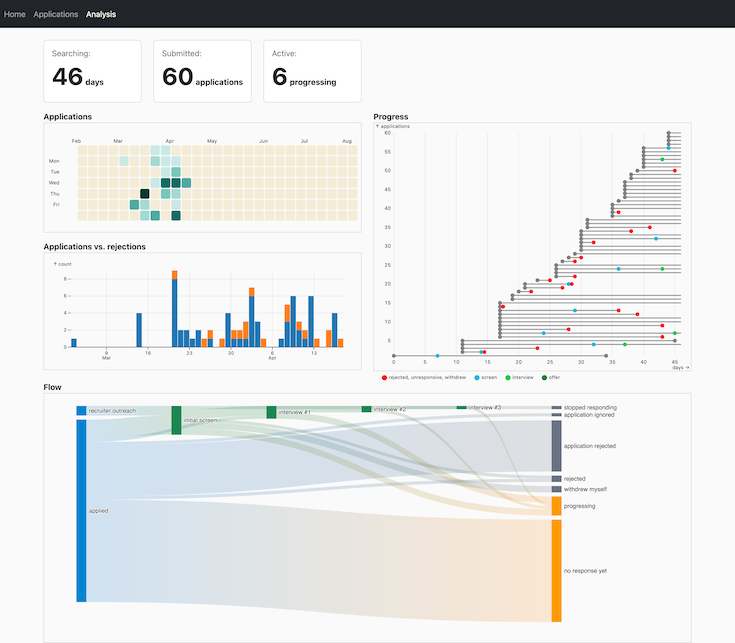
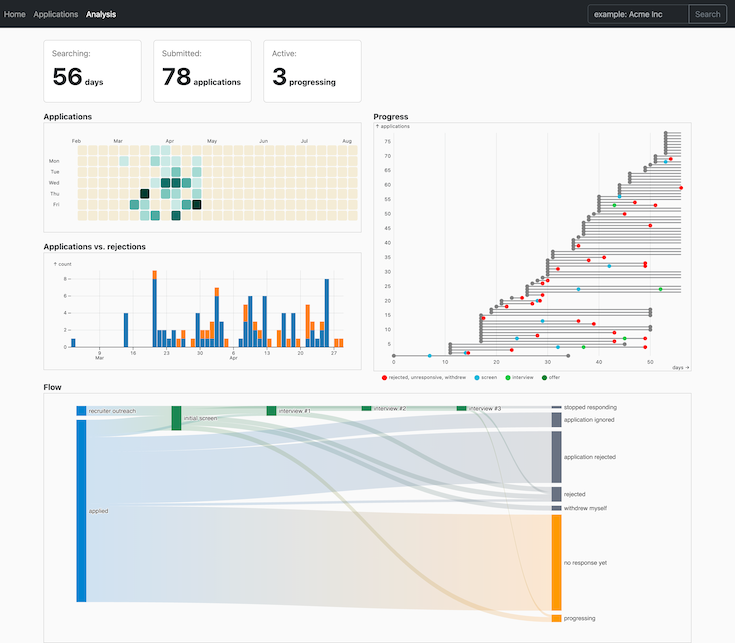
Added keyword search.

diff --git a/frontend/src/Applications.tsx b/frontend/src/Applications.tsx
@@ -1,4 +1,5 @@
 import { useEffect, useState } from "react";
+import { useSearchParams } from "react-router";
 
 import Container from "react-bootstrap/Container";
 import Row from "react-bootstrap/Row";
@@ -17,6 +18,8 @@ function Screen() {
     const [focusedApplications, setFocusedApplications] = useState<string[]>([]);
     const [editingApplications, setEditingApplications] = useState<string[]>([]);
     const [filters, setFilters] = useState<ApplicationFilter[]>(["status:active"]);
+    const [searchQuery, setSearchQuery] = useState<string>("");
+    const [searchParams, setSearchParams] = useSearchParams();
 
     const focusApplication = (applicationId: string, focused: boolean) => {
         const focusedIds = focusedApplications.filter((id: string) => id !== applicationId);
@@ -83,9 +86,19 @@ function Screen() {
         setApplications(allApplications);
     };
 
+    const handleSearchQueryChange = (queryText: string) => {
+        setSearchQuery(queryText); // update our own state
+        setSearchParams(queryText); // update the browser url
+    };
+
     useEffect(() => {
+        const searchQuery = searchParams.get("search") || "";
+        setSearchQuery(searchQuery);
+        if (searchQuery !== "") {
+            setFilters([]);
+        }
         loadData();
-    }, []);
+    }, [searchParams]);
 
     // Some rough counts for now, until I add a better stats view.
     const startOfToday = dayjs().startOf("date");
@@ -107,7 +120,11 @@ function Screen() {
 
     return (
         <div>
-            <TopNav currentItemLabel="Applications" />
+            <TopNav
+                currentItemLabel="Applications"
+                handleSearchQueryChange={(queryText) => handleSearchQueryChange(queryText)}
+                searchQuery={searchQuery}
+            />
             <Container className="mt-4">
                 <Row>
                     <Col>
@@ -166,6 +183,19 @@ function Screen() {
                                 </Dropdown.Item>
                             </Dropdown.Menu>
                         </Dropdown>
+                        {searchQuery && (
+                            <Button
+                                style={{ marginLeft: "1rem" }}
+                                variant="secondary"
+                                size="sm"
+                                onClick={() => {
+                                    handleSearchQueryChange("");
+                                }}
+                            >
+                                {searchQuery}
+                                &nbsp;&nbsp;&nbsp; x
+                            </Button>
+                        )}
                     </Col>
                     <Col>
                         <Button variant="primary" className="float-end" onClick={() => addApplication()}>
@@ -184,6 +214,7 @@ function Screen() {
                             saveChanges={(applicationId, changes) => saveChanges(applicationId, changes)}
                             deleteApplication={(applicationId) => deleteApplication(applicationId)}
                             filters={filters}
+                            searchQuery={searchQuery}
                         />
                     </Col>
                 </Row>

diff --git a/frontend/src/components/TopNav.tsx b/frontend/src/components/TopNav.tsx
@@ -1,13 +1,43 @@
+import { useEffect, useState } from "react";
+import { useNavigate } from "react-router";
+
 import Nav from "react-bootstrap/Nav";
 import Navbar from "react-bootstrap/Navbar";
+import Button from "react-bootstrap/Button";
+import Form from "react-bootstrap/Form";
+import InputGroup from "react-bootstrap/InputGroup";
 
 interface ComponentProps {
     currentItemLabel: string;
+    handleSearchQueryChange: (queryText: string) => void;
+    searchQuery: string;
 }
 
-const TopNav = ({ currentItemLabel }: ComponentProps) => {
+const TopNav = ({ currentItemLabel, handleSearchQueryChange, searchQuery }: ComponentProps) => {
+    const [searchTextRaw, setSearchTextRaw] = useState<string>("");
+    const navigate = useNavigate();
+
+    const searchApplications = () => {
+        const searchTextCleaned = searchTextRaw ? searchTextRaw.trim() : "";
+        if (handleSearchQueryChange) {
+            // If we're already on a page that cares about search box state, update that
+            handleSearchQueryChange(searchTextCleaned);
+        }
+        let searchUrl = "/Applications?mode=search";
+        if (searchTextCleaned !== "") {
+            searchUrl += "&search=" + encodeURIComponent(searchTextCleaned);
+        }
+        navigate(searchUrl);
+    };
+
+    useEffect(() => {
+        if (searchQuery !== undefined) {
+            setSearchTextRaw(searchQuery);
+        }
+    }, [searchQuery]);
+
     return (
-        <Navbar expand="lg" bg="dark" data-bs-theme="dark" sticky="top">
+        <Navbar expand="lg" bg="dark" data-bs-theme="dark" sticky="top" className="justify-content-between">
             <Navbar.Toggle aria-controls="basic-navbar-nav" />
             <Navbar.Collapse id="basic-navbar-nav">
                 <Nav className="me-auto">
@@ -22,6 +52,27 @@ const TopNav = ({ currentItemLabel }: ComponentProps) => {
                     </Nav.Link>
                 </Nav>
             </Navbar.Collapse>
+            <Form
+                style={{ marginRight: "1rem" }}
+                onSubmit={(event) => {
+                    event.preventDefault();
+                    searchApplications();
+                }}
+            >
+                <InputGroup>
+                    <Form.Control
+                        placeholder="example: Acme Inc"
+                        value={searchTextRaw}
+                        onChange={(event) => {
+                            event.preventDefault();
+                            setSearchTextRaw(event.target.value);
+                        }}
+                    />
+                    <Button variant="outline-secondary" onClick={() => searchApplications()}>
+                        Search
+                    </Button>
+                </InputGroup>
+            </Form>
         </Navbar>
     );
 };

diff --git a/frontend/src/api/Application.ts b/frontend/src/api/Application.ts
@@ -21,7 +21,12 @@ export const getApplications = async (): Promise<Application[]> => {
     return [];
 };
 
-export const filterApplications = (applications: Application[], filters: ApplicationFilter[]): Application[] => {
+export const filterApplications = (
+    applications: Application[],
+    filters: ApplicationFilter[],
+    searchQuery?: string,
+): Application[] => {
+    let filtered = applications;
     if (filters.length) {
         type StatusMapping = {
             [key in ApplicationStatusId]?: {
@@ -36,7 +41,6 @@ export const filterApplications = (applications: Application[], filters: Applica
                 progressing: statusDef.progressing,
             };
         });
-        let filtered = applications;
         for (const filter of filters) {
             if (filter === "status:active") {
                 filtered = filtered.filter((app) => statusMappings[app.status]?.active);
@@ -46,10 +50,16 @@ export const filterApplications = (applications: Application[], filters: Applica
                 filtered = filtered.filter((app) => statusMappings[app.status]?.progressing);
             }
         }
-        return filtered;
-    } else {
-        return applications;
     }
+    if (searchQuery && searchQuery !== "") {
+        const searchString = searchQuery.toLowerCase();
+        filtered = filtered.filter((app) => {
+            const flattened = JSON.stringify(app).toLowerCase();
+            return flattened.includes(searchString);
+        });
+    }
+
+    return filtered;
 };
 
 export const saveApplications = async (applications: Application[]): Promise<void> => {

diff --git a/frontend/src/components/ApplicationList.tsx b/frontend/src/components/ApplicationList.tsx
@@ -13,6 +13,7 @@ interface ApplicationListProps {
     saveChanges: (applicationId: string, application: Application) => void;
     deleteApplication: (applicationId: string) => void;
     filters: ApplicationFilter[];
+    searchQuery: string;
 }
 
 export default function ApplicationList({
@@ -24,6 +25,7 @@ export default function ApplicationList({
     saveChanges,
     deleteApplication,
     filters,
+    searchQuery,
 }: ApplicationListProps) {
     // When a card is focused, make it twice as wide.
     const cardWidth = (size: string, applicationId: string) => {
@@ -34,12 +36,12 @@ export default function ApplicationList({
         }
     };
 
-    const filteredApplications = filterApplications(applications, filters);
+    const filteredApplications = filterApplications(applications, filters, searchQuery);
     return (
         <Fragment>
             <Row>
                 <Col>
-                    {filters.length > 0
+                    {filters.length > 0 || searchQuery !== ""
                         ? `Filtered to ${filteredApplications.length} of ${applications.length} total applications.`
                         : `Showing all ${applications.length} applications.`}
                 </Col>
